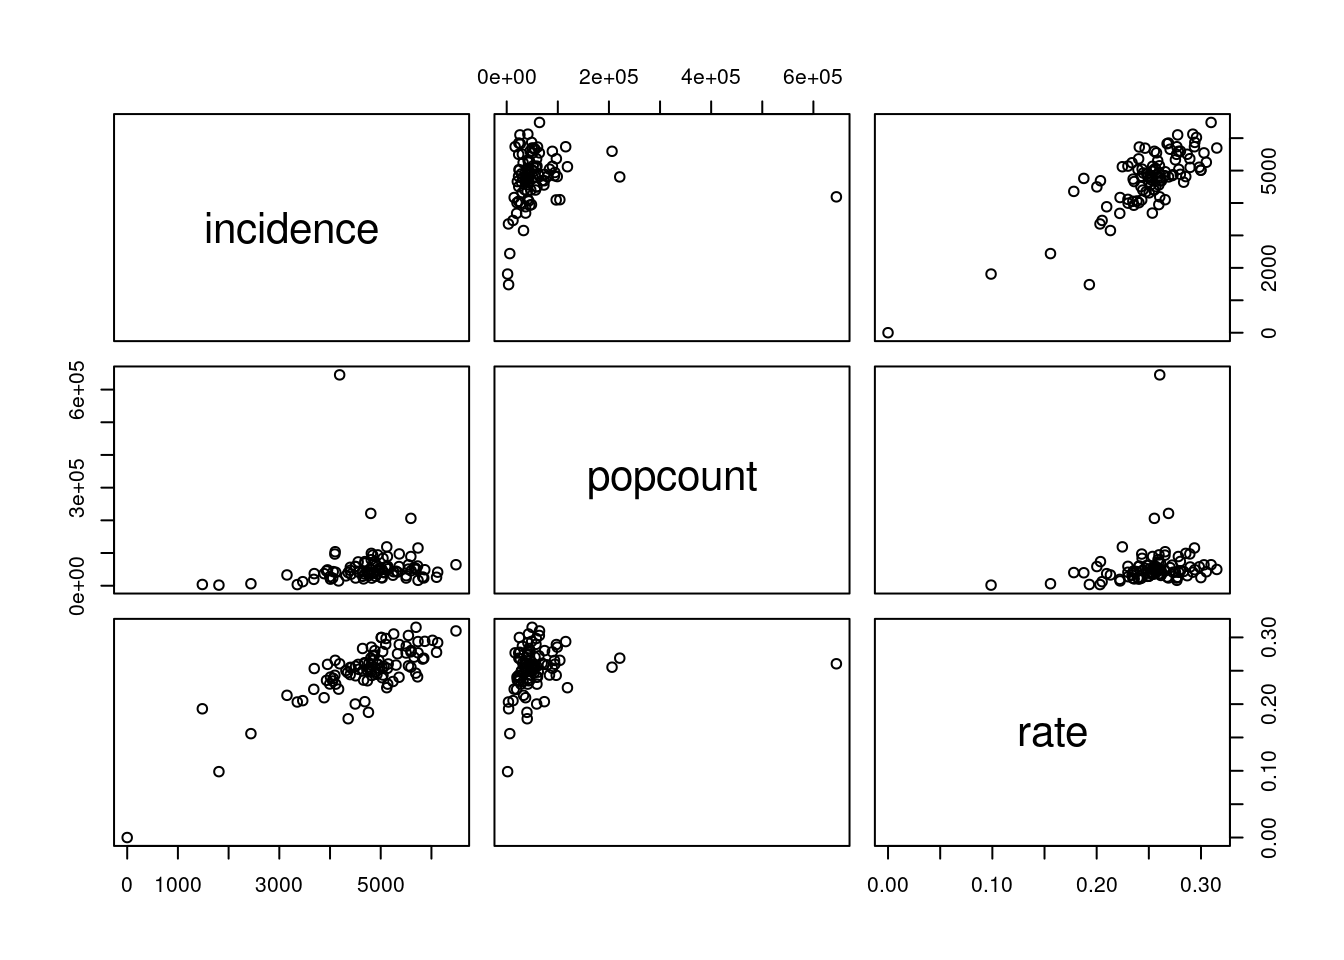
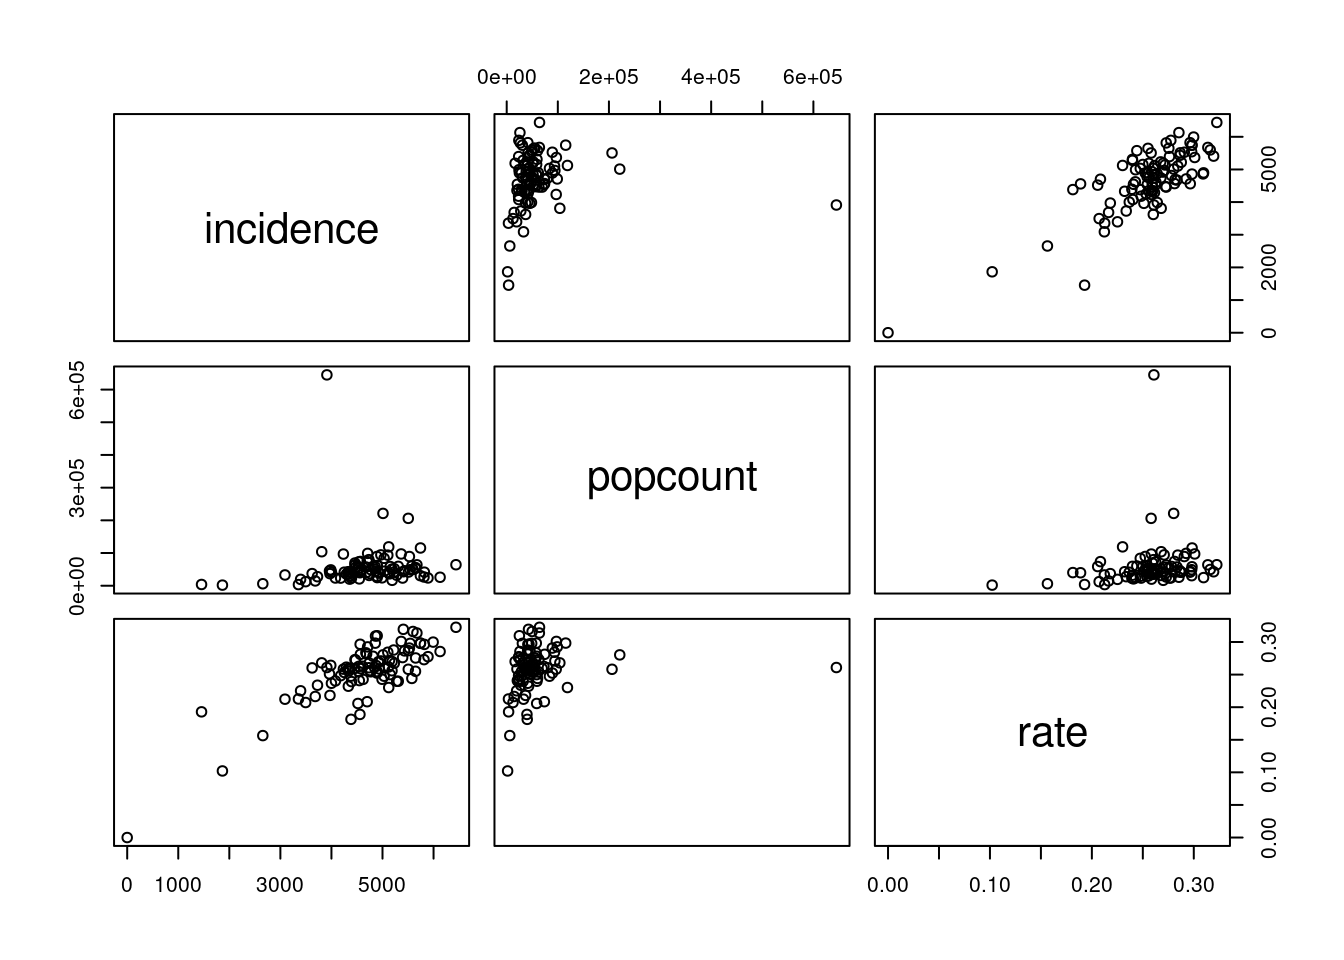
Updated data for 2022-02-01

diff --git a/docs/index.html b/docs/index.html
@@ -10,7 +10,7 @@
 
 
 
-<meta name="date" content="2022-01-31" />
+<meta name="date" content="2022-02-01" />
 
 <title>Covid-19 Stats for Denmark</title>
 
@@ -261,7 +261,7 @@ $(document).ready(function () {
 
 
 <h1 class="title toc-ignore">Covid-19 Stats for Denmark</h1>
-<h4 class="date">2022-01-31</h4>
+<h4 class="date">2022-02-01</h4>
 
 </div>
 
@@ -308,7 +308,7 @@ $(document).ready(function () {
 <pre class="r"><code>library(tidyverse)
 library(lubridate)</code></pre>
 <p>SSI’s data is in a zip file. We unpack this zip file into a directory of the general form <code>YYYY-MM-DD</code>. Lets set up a name for the current directory we want to grab data from</p>
-<pre class="r"><code>date &lt;- &quot;2022-01-31&quot;</code></pre>
+<pre class="r"><code>date &lt;- &quot;2022-02-01&quot;</code></pre>
 </div>
 <div id="ingesting-data" class="section level2">
 <h2>Ingesting data</h2>
@@ -350,7 +350,7 @@ library(lubridate)</code></pre>
                                       ))</code></pre>
 <pre><code>## ℹ Using &quot;&#39;,&#39;&quot; as decimal and &quot;&#39;.&#39;&quot; as grouping mark. Use `read_delim()` for more control.</code></pre>
 <pre class="r"><code>data</code></pre>
-<pre><code>## # A tibble: 6,698 × 9
+<pre><code>## # A tibble: 6,704 × 9
 ##    Region      Prøvetagningsdato Køn   `Bekræftede tilfælde`  Døde Indlæggelser
 ##    &lt;fct&gt;       &lt;date&gt;            &lt;fct&gt;                 &lt;dbl&gt; &lt;dbl&gt;        &lt;dbl&gt;
 ##  1 Sjælland    2020-02-26        M                         1     0            0
@@ -363,7 +363,7 @@ library(lubridate)</code></pre>
 ##  8 Hovedstaden 2020-03-03        F                         1     0            0
 ##  9 Hovedstaden 2020-03-03        M                         3     0            1
 ## 10 Hovedstaden 2020-03-04        M                         2     0            0
-## # … with 6,688 more rows, and 3 more variables: Kummuleret antal døde &lt;dbl&gt;,
+## # … with 6,694 more rows, and 3 more variables: Kummuleret antal døde &lt;dbl&gt;,
 ## #   Kummuleret antal bekræftede tilfælde &lt;dbl&gt;,
 ## #   Kummuleret antal indlæggelser &lt;dbl&gt;</code></pre>
 <p>We certainly don’t want to work with danish-named columns. Rather, we want small descriptive names which are easy to type. We send our dataset through a <code>rename</code> pass for this.</p>
@@ -378,7 +378,7 @@ library(lubridate)</code></pre>
 # Cut the cumulative columns away
 data &lt;- data %&gt;% select(region, date, gender, cases, deaths, hospitalizations)
 data</code></pre>
-<pre><code>## # A tibble: 6,698 × 6
+<pre><code>## # A tibble: 6,704 × 6
 ##    region      date       gender cases deaths hospitalizations
 ##    &lt;fct&gt;       &lt;date&gt;     &lt;fct&gt;  &lt;dbl&gt;  &lt;dbl&gt;            &lt;dbl&gt;
 ##  1 Sjælland    2020-02-26 M          1      0                0
@@ -391,7 +391,7 @@ data</code></pre>
 ##  8 Hovedstaden 2020-03-03 F          1      0                0
 ##  9 Hovedstaden 2020-03-03 M          3      0                1
 ## 10 Hovedstaden 2020-03-04 M          2      0                0
-## # … with 6,688 more rows</code></pre>
+## # … with 6,694 more rows</code></pre>
 <p>Provide a low cut-off. We are interested in the recent period with Omicron, rather than the full duration of Covid-19.</p>
 <pre class="r"><code>lo_cutoff &lt;- &#39;2021-09-01&#39;</code></pre>
 <p>The high end of that cutoff, we set to two days before the maximal date in our data set</p>
@@ -405,7 +405,7 @@ data</code></pre>
 # Put this into the summary
 summary &lt;- data
 summary</code></pre>
-<pre><code>## # A tibble: 1,500 × 6
+<pre><code>## # A tibble: 1,510 × 6
 ##    region      date       gender cases deaths hospitalizations
 ##    &lt;fct&gt;       &lt;date&gt;     &lt;fct&gt;  &lt;dbl&gt;  &lt;dbl&gt;            &lt;dbl&gt;
 ##  1 Hovedstaden 2021-09-01 F        210      0                7
@@ -418,7 +418,7 @@ summary</code></pre>
 ##  8 Nordjylland 2021-09-01 M         16      1                2
 ##  9 Sjælland    2021-09-01 M         37      0                3
 ## 10 Syddanmark  2021-09-01 M         41      0                1
-## # … with 1,490 more rows</code></pre>
+## # … with 1,500 more rows</code></pre>
 </div>
 <div id="weekly-key-figures-split-by-age" class="section level3">
 <h3>Weekly key figures split by age</h3>
@@ -509,15 +509,15 @@ data</code></pre>
 ##     lau1 name      `Bekræftede tilf… Incidens cases incidence tested tested_100k
 ##    &lt;dbl&gt; &lt;fct&gt;                 &lt;dbl&gt;    &lt;dbl&gt; &lt;dbl&gt;     &lt;dbl&gt;  &lt;dbl&gt;       &lt;dbl&gt;
 ##  1   411 &quot;&quot;                        0       NA     0         0     87       95604
-##  2   101 &quot;Københa…            247223    38552 26867      4190 651514      102000
-##  3   147 &quot;Frederi…             37264    36112  4233      4102 110889      107000
-##  4   151 &quot;Balleru…             17963    36523  2472      5026  49753      101000
-##  5   153 &quot;Brøndby&quot;             14550    40827  1669      4683  35904      101000
-##  6   155 &quot;Dragør&quot;               5051    34577   609      4169  14448       98905
-##  7   157 &quot;Gentoft…             26239    35493  3611      4884  75381      102000
-##  8   159 &quot;Gladsax…             25492    36866  3244      4691  71461      103000
-##  9   161 &quot;Glostru…              8998    38423  1055      4505  24220      103000
-## 10   163 &quot;Herlev&quot;              11587    40258  1337      4645  29577      103000
+##  2   101 &quot;Københa…            251888    39280 25081      3911 651814      102000
+##  3   147 &quot;Frederi…             37955    36781  3932      3810 110952      108000
+##  4   151 &quot;Balleru…             18284    37175  2346      4770  49770      101000
+##  5   153 &quot;Brøndby&quot;             14761    41419  1530      4293  35925      101000
+##  6   155 &quot;Dragør&quot;               5161    35330   538      3683  14451       98925
+##  7   157 &quot;Gentoft…             26623    36012  3376      4567  75409      102000
+##  8   159 &quot;Gladsax…             25936    37508  3084      4460  71491      103000
+##  9   161 &quot;Glostru…              9088    38808   955      4078  24227      103000
+## 10   163 &quot;Herlev&quot;              11755    40841  1261      4381  29597      103000
 ## # … with 89 more rows, and 3 more variables: tested_1w &lt;dbl&gt;,
 ## #   tested_100k_1w &lt;dbl&gt;, population &lt;dbl&gt;</code></pre>
 <pre class="r"><code>muncipalities &lt;- data</code></pre>
@@ -677,23 +677,21 @@ muncipalities$incidence_type &lt;- ifelse(muncipalities$incidence_z &lt; 0, &quo
 muncipalities$rate_z &lt;- round(muncipalities$rate - mean(muncipalities$rate), 5)
 muncipalities$rate_type &lt;- ifelse(muncipalities$rate_z &lt; 0, &quot;Below mean&quot;, &quot;Above mean&quot;)
 muncipalities$rate</code></pre>
-<pre><code>##  [1] 0.00000000 0.26045777 0.26564167 0.25471406 0.26209171 0.22242513
-##  [7] 0.28020486 0.26119163 0.24241728 0.24995326 0.23012552 0.25359954
-## [13] 0.24467386 0.29835600 0.25210421 0.24287889 0.23494467 0.27686436
-## [19] 0.29217251 0.27763088 0.27326057 0.27237703 0.24639570 0.29990310
-## [25] 0.28959141 0.25849742 0.28028478 0.25736505 0.24796313 0.26152498
-## [31] 0.25362399 0.26879227 0.22994142 0.21317910 0.25953182 0.25321888
-## [37] 0.25956173 0.25460829 0.25879329 0.27658662 0.25029036 0.24879957
-## [43] 0.17806399 0.24354755 0.24084428 0.26569706 0.18767479 0.25645945
-## [49] 0.27871736 0.26018166 0.23957920 0.23387097 0.25531018 0.22995301
-## [55] 0.29563492 0.20521487 0.15572034 0.27039183 0.26749397 0.20363379
-## [61] 0.20959226 0.29373890 0.20318021 0.31514949 0.30510093 0.20016712
-## [67] 0.25083918 0.25973158 0.26544260 0.22459597 0.27830847 0.24022689
-## [73] 0.22215308 0.23598245 0.28337072 0.25334821 0.29407544 0.23463548
-## [79] 0.28539703 0.28927819 0.19298246 0.30969179 0.29983102 0.25168854
-## [85] 0.25508623 0.24421624 0.24049117 0.23562300 0.23860846 0.24319508
-## [91] 0.25991832 0.25666118 0.24733542 0.09876543 0.28680721 0.27545951
-## [97] 0.24898236 0.26888945 0.30287721</code></pre>
+<pre><code>##  [1] 0.0000000 0.2608528 0.2680117 0.2542814 0.2614044 0.2164119 0.2811225
+##  [8] 0.2594867 0.2402516 0.2475947 0.2337130 0.2543786 0.2426558 0.2982307
+## [15] 0.2532795 0.2392378 0.2321541 0.2700222 0.2963237 0.2854050 0.2816016
+## [22] 0.2729490 0.2550786 0.3096031 0.2834554 0.2601702 0.2863568 0.2558864
+## [29] 0.2544364 0.2676895 0.2523532 0.2774807 0.2367017 0.2122483 0.2625507
+## [36] 0.2562055 0.2641769 0.2595694 0.2605083 0.2761406 0.2557409 0.2538615
+## [43] 0.1813477 0.2474997 0.2441243 0.2640019 0.1889169 0.2616617 0.2877174
+## [50] 0.2675166 0.2428542 0.2398075 0.2581425 0.2398072 0.2998483 0.2071463
+## [57] 0.1564027 0.2755120 0.2729677 0.2084161 0.2180923 0.2983475 0.2125693
+## [64] 0.3161371 0.3194560 0.2057019 0.2609925 0.2709465 0.2843009 0.2301443
+## [71] 0.2906922 0.2500000 0.2251452 0.2408163 0.2965507 0.2602686 0.2978887
+## [78] 0.2483410 0.2924973 0.3008880 0.1928571 0.3225832 0.3091160 0.2696393
+## [85] 0.2723132 0.2591566 0.2585135 0.2510554 0.2588706 0.2583475 0.2717439
+## [92] 0.2780943 0.2628024 0.1021672 0.2979516 0.2867150 0.2586894 0.2802656
+## [99] 0.3137952</code></pre>
 <pre class="r"><code>ggplot(muncipalities %&gt;% mutate(name = fct_reorder(name, rate)), aes(x=name, y=rate)) +
   geom_bar(stat=&#39;identity&#39;, aes(fill=rate_type), width=.5)  +
   scale_colour_brewer(palette=&quot;Set2&quot;) +
@@ -753,15 +751,15 @@ popcount</code></pre>
 ##    name            incidence popcount
 ##    &lt;chr&gt;               &lt;dbl&gt;    &lt;dbl&gt;
 ##  1 &quot;&quot;                      0       NA
-##  2 &quot;København&quot;          4190   644987
-##  3 &quot;Frederiksberg&quot;      4102   103963
-##  4 &quot;Ballerup&quot;           5026    49228
-##  5 &quot;Brøndby&quot;            4683    35535
-##  6 &quot;Dragør&quot;             4169    14602
-##  7 &quot;Gentofte&quot;           4884    74154
-##  8 &quot;Gladsaxe&quot;           4691    69321
-##  9 &quot;Glostrup&quot;           4505    23519
-## 10 &quot;Herlev&quot;             4645    28861
+##  2 &quot;København&quot;          3911   644987
+##  3 &quot;Frederiksberg&quot;      3810   103963
+##  4 &quot;Ballerup&quot;           4770    49228
+##  5 &quot;Brøndby&quot;            4293    35535
+##  6 &quot;Dragør&quot;             3683    14602
+##  7 &quot;Gentofte&quot;           4567    74154
+##  8 &quot;Gladsaxe&quot;           4460    69321
+##  9 &quot;Glostrup&quot;           4078    23519
+## 10 &quot;Herlev&quot;             4381    28861
 ## # … with 89 more rows</code></pre>
 <p>Now, test correlation via Pearson:</p>
 <pre class="r"><code>plot(muncipalities$incidence, muncipalities$popcount)</code></pre>
@@ -771,13 +769,13 @@ popcount</code></pre>
 ##  Pearson&#39;s product-moment correlation
 ## 
 ## data:  muncipalities$incidence and muncipalities$popcount
-## t = 0.86295, df = 92, p-value = 0.3904
+## t = 0.74569, df = 92, p-value = 0.4578
 ## alternative hypothesis: true correlation is not equal to 0
 ## 95 percent confidence interval:
-##  -0.1151003  0.2870124
+##  -0.1271039  0.2757949
 ## sample estimates:
 ##        cor 
-## 0.08960639</code></pre>
+## 0.07750917</code></pre>
 <p>Clearly, this argues there are no strong connection between population count, and the incidence in a given muncipality.</p>
 <p>Analyzing the rate shows there’s a connection between it and incidence, but this is more expected:</p>
 <pre class="r"><code>pairs(muncipalities %&gt;% select(incidence,popcount,rate))</code></pre>
@@ -787,17 +785,17 @@ popcount</code></pre>
 ##  Pearson&#39;s product-moment correlation
 ## 
 ## data:  muncipalities$incidence and muncipalities$rate
-## t = 13.61, df = 97, p-value &lt; 2.2e-16
+## t = 13.143, df = 97, p-value &lt; 2.2e-16
 ## alternative hypothesis: true correlation is not equal to 0
 ## 95 percent confidence interval:
-##  0.7293701 0.8686262
+##  0.7159262 0.8615462
 ## sample estimates:
 ##       cor 
-## 0.8101338</code></pre>
+## 0.8002385</code></pre>
 <p>Summarize:</p>
 <pre class="r"><code>summary(muncipalities$rate)</code></pre>
 <pre><code>##    Min. 1st Qu.  Median    Mean 3rd Qu.    Max. 
-##  0.0000  0.2399  0.2547  0.2504  0.2728  0.3151</code></pre>
+##  0.0000  0.2435  0.2602  0.2561  0.2792  0.3226</code></pre>
 <pre class="r"><code>d &lt;- density(muncipalities$rate)
 plot(d)</code></pre>
 <p><img src="index_files/figure-html/muncipality-summary-1.png" width="672" /></p>

diff --git a/docs/core.html b/docs/core.html
@@ -400,7 +400,7 @@ municipality</code></pre>
             aes(date, forcats::fct_rev(Municipality), fill=Cases/Tested))
 p + geom_tile() +
     scale_fill_continuous(type = &quot;viridis&quot;) +
-    labs(title = &quot;Cases split by Municipality&quot;, subtitle = &quot;&quot;, caption = &quot;Source: ssi.dk&quot;, x=&quot;Date&quot;, y = &quot;Municipality&quot;)</code></pre>
+    labs(title = &quot;Positive Rate split by Municipality&quot;, subtitle = &quot;&quot;, caption = &quot;Source: ssi.dk&quot;, x=&quot;Date&quot;, y = &quot;Municipality&quot;)</code></pre>
 <p><img src="core_files/figure-html/m_plot_cases-1.png" width="672" /></p>
 </div>
 </div>
